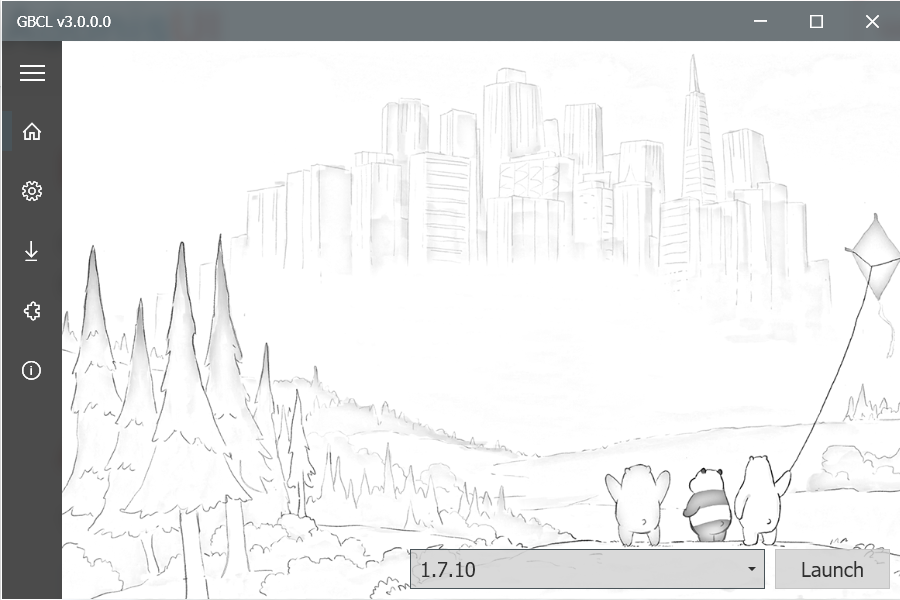
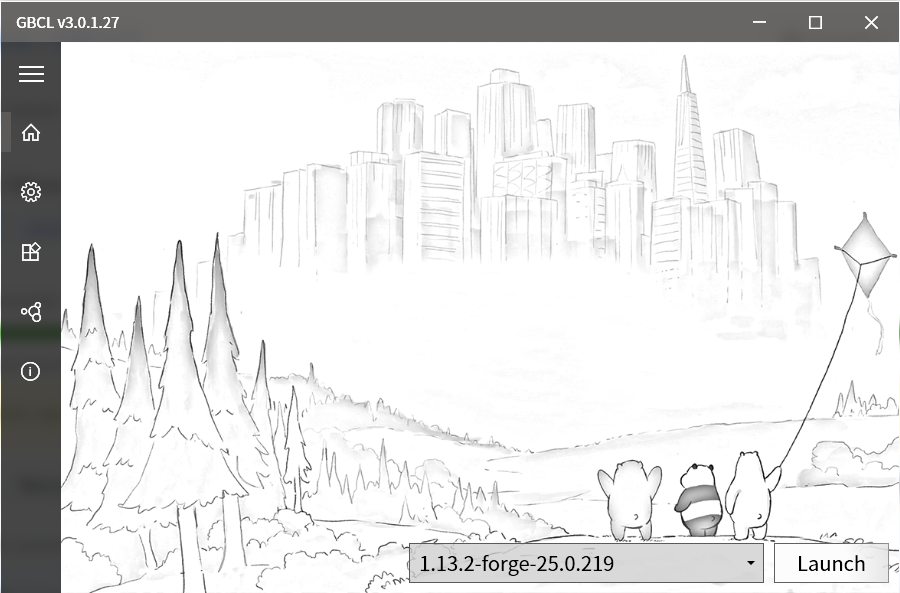
Update README and version number

diff --git a/GBCLV3/Properties/AssemblyInfo.cs b/GBCLV3/Properties/AssemblyInfo.cs
@@ -11,8 +11,8 @@ using System.Windows;
 [assembly: AssemblyCopyright("Copyright © Goose Bomb 2019")]
 [assembly: AssemblyTrademark("")]
 [assembly: AssemblyCulture("")]
-[assembly: AssemblyVersion("3.0.0.0")]
-[assembly: AssemblyFileVersion("3.0.0.0")]
+[assembly: AssemblyVersion("3.0.1.27")]
+[assembly: AssemblyFileVersion("3.0.1.27")]
 
 [assembly: ComVisible(false)]
 

diff --git a/README.md b/README.md
@@ -39,15 +39,17 @@ Goose Bomb's Minecraft Client Launcher V3
   - [ ] Traditional Chinese
   - [ ] Japanese
 
-- [ ] Additional functions
+- [ ] Auxiliary Functions
   - [x] Mods management
-  - [ ] Resourcepacks management
+  - [x] Resourcepacks management
   - [ ] Saves management
 
 ## Screenshots
 
 <img src="./Screenshots/cover_0.png" width="720"/>
-<img src="./Screenshots/literally_code_behind.png" width="720"/>
-<img src="./Screenshots/launching_0.png" width="720"/>
-<img src="./Screenshots/settings_0.png" width="720"/>
-<img src="./Screenshots/settings_1.png" width="720"/>
+<img src="./Screenshots/en_literally_code_behind.png" width="720"/>
+<img src="./Screenshots/en_game_settings.png" width="720"/>
+<img src="./Screenshots/en_launcher_settings.png" width="720"/>
+<img src="./Screenshots/en_versions_management.png" width="720"/>
+<img src="./Screenshots/en_mods_management.png" width="720"/>
+<img src="./Screenshots/en_resourcepacks_management.png" width="720"/>

diff --git a/README-CN.md b/README-CN.md
@@ -38,13 +38,13 @@
   - [ ] 繁体中文
   - [ ] 日语
 
-- [ ] 附加功能
+- [ ] 辅助功能
   - [x] 模组管理
-  - [ ] 资源包管理
+  - [x] 资源包管理
   - [ ] 存档管理
 
 ## 运行截图
-
+<img src="./Screenshots/cover_0.png" width="720"/>
 <img src="./Screenshots/cn_literally_code_behind.png" width="720"/>
 <img src="./Screenshots/cn_game_settings.png" width="720"/>
 <img src="./Screenshots/cn_launcher_settings.png" width="720"/>
